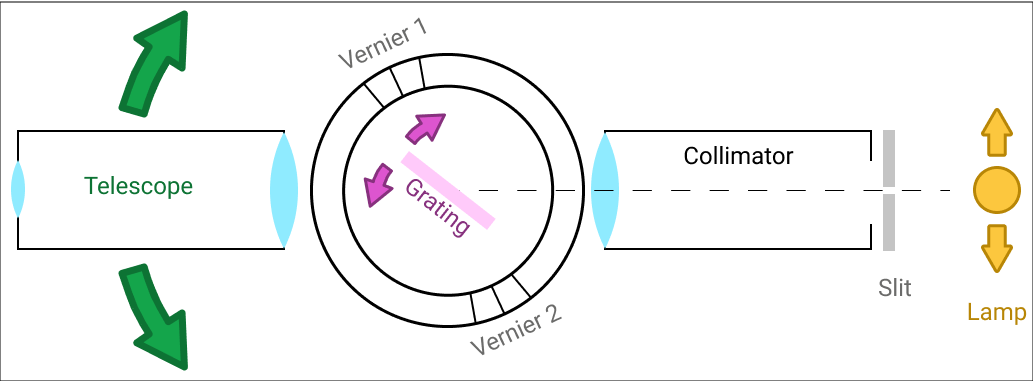
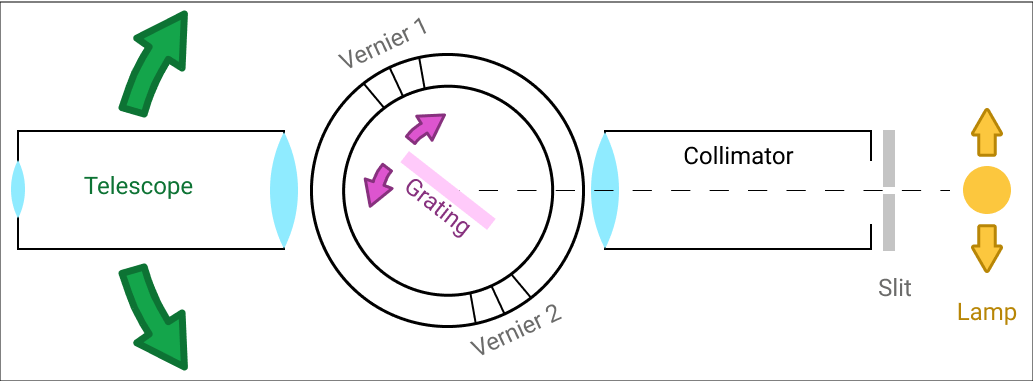
tweaked schema radio buttons; added lamp arrows

Changed region(s): [[0.9293, 0.4331, 0.9913, 0.7218], [0.9293, 0.2887, 0.9913, 0.4042], [0.9293, 0.7795, 1.0, 0.8661]]

diff --git a/AtomicSpectra/index.html b/AtomicSpectra/index.html
@@ -41,8 +41,9 @@
   <script type="text/javascript" src="static/js/popper.min.js"></script>
   <script src="static/js/bootstrap.min.js"></script>
   <script src="static/js/webflow.js" type="text/javascript"></script>
-  <!-- imagemapster - These are scripts that enable styling canvases atop imagemaps -->
   <script type="text/javascript" src="static/js/jquery.imagemapster.js"></script> 
+  <!-- ruler - These scripts enable a canvas with cursor and coordinates -->
+  <script src="static/js/jquery.ruler.js"></script>
 
   <script src="static/js/main.js"></script>
   <!-- Start your project here--> 
@@ -114,7 +115,7 @@
            <center>Show Crosshair: <input type="checkbox" id="showRuler"><div  id="Coordinates" ></div></center>
           </div>
         </div>
-        <div>
+        <div id="CameraSelectorButtons">
           <div class="btn-group" role="group"  aria-label="Basic example">
             <button id="OverviewCam" type="button" class="btn btn-primary">Overview</button>
             <button id="EyepieceCam" type="button" class="btn btn-primary">Eyepiece</button>
@@ -123,53 +124,65 @@
             <!-- <button id="OffCam" type="button" class="btn btn-primary">Off</button> -->
           </div>
         </div>
-        <div>  
+        <div id="Schematic">  
           <div id="SchematicLeft" class="column w-col w-col-2"></div>
-          <div id="Schematic" class="column w-col w-col-8">
+          <div id="SchematicCenter" class="column w-col w-col-8">
             <img id="Schema" src="static/images/spectroscope_schematic.png" usemap="#image-map-schematic">
             <map name="image-map-schematic">
               <area id="telescopeCW" alt="CW" title="Rotate Clockwise" href="#" coords="119,108,143,117,151,92,157,79,167,63,182,70,183,14,134,38,148,47,137,66,128,88" shape="poly">
               <area id="telescopeCCW" alt="CCW" title="Rotate Counterclockwise" href="#" coords="144,267,122,273,130,298,138,318,150,332,132,344,185,367,183,312,169,319,160,299,150,280" shape="poly">
               <area id="gratingCW" alt="CW" title="Rotate Clockwise" href="#" coords="405,135,412,145,424,135,431,139,444,113,414,113,421,123" shape="poly">
               <area id="gratingCCW" alt="CCW" title="Rotate Counterclockwise" href="#" coords="382,165,376,173,373,182,365,179,369,205,391,188,383,182,391,170" shape="poly">
+              <area id="lampNudgeLeft" alt="lampLeft" href="#" coords="988,156,988,135,978,135,997,108,1013,135,1004,135,1007,156" shape="poly">
+              <area id="lampNudgeRight" alt="lampRight" href="#" coords="988,224,989,245,981,245,998,272,1013,245,1005,245,1005,224" shape="poly">
             </map>
+            <div class="click-note" style="margin-bottom: -10px;">
+              (choose Fine/Coarse and click arrows to rotate the telescope or the grating)
+            </div>
+          </div>
+          <div id="SchematicRight" class="column w-col w-col-1" style="color:rgb(184, 134, 6)">
+          </br></br></br></br>
+          (click arrows </br>  to nudge </br> the lamp)
+          </div>
+        </div>  
+        <div id="SchematicRadioButtons">
+          <div id="radioButtonsRight" class="column w-col w-col-3"></div>
+          <div id="radioButtonsMiddle" class="column w-col w-col-7">
+            <div class="column w-row">
+              <div class="column w-col w-col-4" style="bottom: -15px; color:darkgreen; font-size: large;" >Telescope:</div>
+              <div class="column w-col w-col-2" style=""></div>
+              <div class="column w-col w-col-4" style="bottom: -15px; color:darkorchid; font-size: large">Grating:</div>
+            </div>
             <div id="radioButtonsSchematic" class="w-row">
-              <!-- <div class="column w-col w-col-1" style="bottom: -30px;"></div> -->
-              <div class="column w-col w-col-2" style="bottom: -30px; color:darkgreen" >Telescope:</div>
-              <div class="column w-col w-col-1" style=" bottom: -30px; color:darkgreen">
+              <div class="column w-col w-col-1" style="color:darkgreen">
                 <input type="radio" id="fineArm" name="ArmStepSize" value="1">
                 <label for="fineArm">Fine</label>
               </div>  <!-- &nbsp;&nbsp;&nbsp; -->
-              <div class="column w-col w-col-1" style=" bottom: -30px; color:darkgreen">
+              <div class="column w-col w-col-2" style="color:darkgreen">
                 <input type="radio" id="mediumArm" name="ArmStepSize" value="5">
                 <label for="mediumArm">Medium</label>
               </div>  <!-- &nbsp;&nbsp;&nbsp; -->
-              <div class="column w-col w-col-1" style="bottom: -30px; color:darkgreen">
+              <div class="column w-col w-col-1" style="color:darkgreen">
                 <input type="radio" id="coarseArm" name="ArmStepSize" value="50" checked>
                 <label for="coarseArm">Coarse</label>
               </div>
-              <div class="column w-col w-col-1" style="bottom: -30px;"></div>
-              <div class="column w-col w-col-1" style="bottom: -30px; color:darkorchid">Grating:</div>
-              <div class="column w-col w-col-1" style=" bottom: -30px; color:darkorchid">
+              <div class="column w-col w-col-2" style=""></div>
+              <div class="column w-col w-col-1" style=" color:darkorchid">
                 <input type="radio" id="fineTable" name="TableStepSize" value="20">
                 <label for="fineTable">Fine</label>
               </div>  <!-- &nbsp;&nbsp;&nbsp; -->
-              <div class="column w-col w-col-1" style=" bottom: -30px; color:darkorchid">
+              <div class="column w-col w-col-2" style="color:darkorchid">
                 <input type="radio" id="mediumTable" name="TableStepSize" value="200">
                 <label for="mediumTable">Medium</label>
               </div>  <!-- &nbsp;&nbsp;&nbsp; -->
-              <div class="column w-col w-col-1" style="bottom: -30px; color:darkorchid">
+              <div class="column w-col w-col-1" style="color:darkorchid">
                 <input type="radio" id="coarseTable" name="TableStepSize" value="600" checked>
                 <label for="coarseTable">Coarse</label>
               </div>
-              <div class="column w-col w-col-2" style="bottom: -30px;"></div>
-            </div>
-            <div class="click-note" style="margin-bottom: -20px;">
-              (choose Fine/Coarse and click arrows to move the telescope or the grating)
             </div>
           </div>
-          <div id="SchematicRight" class="column w-col w-col-2"></div>
-        </div>  
+          <div id="radioButtonsRight" class="column w-col w-col-2"></div>
+        </div>
       </div>
       <div id="RightSideImages" class="column w-col w-col-2">
         <div id="Lamps">
@@ -231,10 +244,9 @@
             <br>
             (click on image for a PDF of the Manual)
         </div>  
-
       </div>
     </div>
-    <div id="PageBottom" class="column w-row">
+    <div id="PageBottom" class="column w-row"><!-- unused -->
       <div id="ControlsBottom" class="column w-row" >
         <div id="LeftSide" class="column w-col w-col-2">
         </div>
@@ -265,6 +277,5 @@
             </div>
         </div>
     </div>
-<script src="static/js/jquery.ruler.js"></script>
  </body>
 </html>
